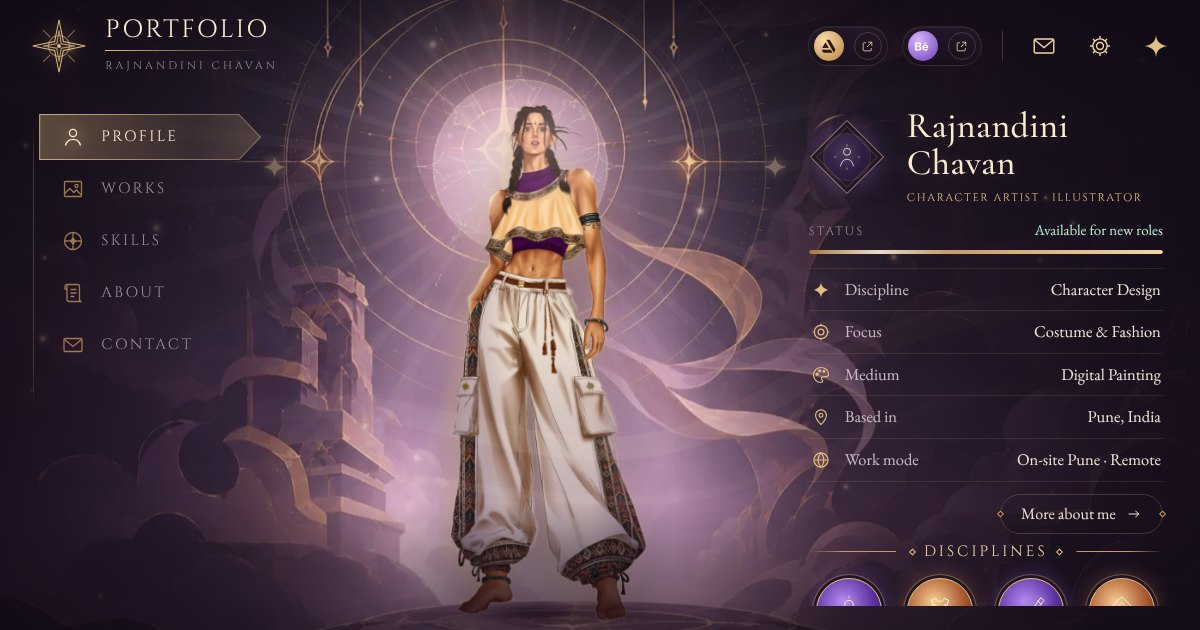
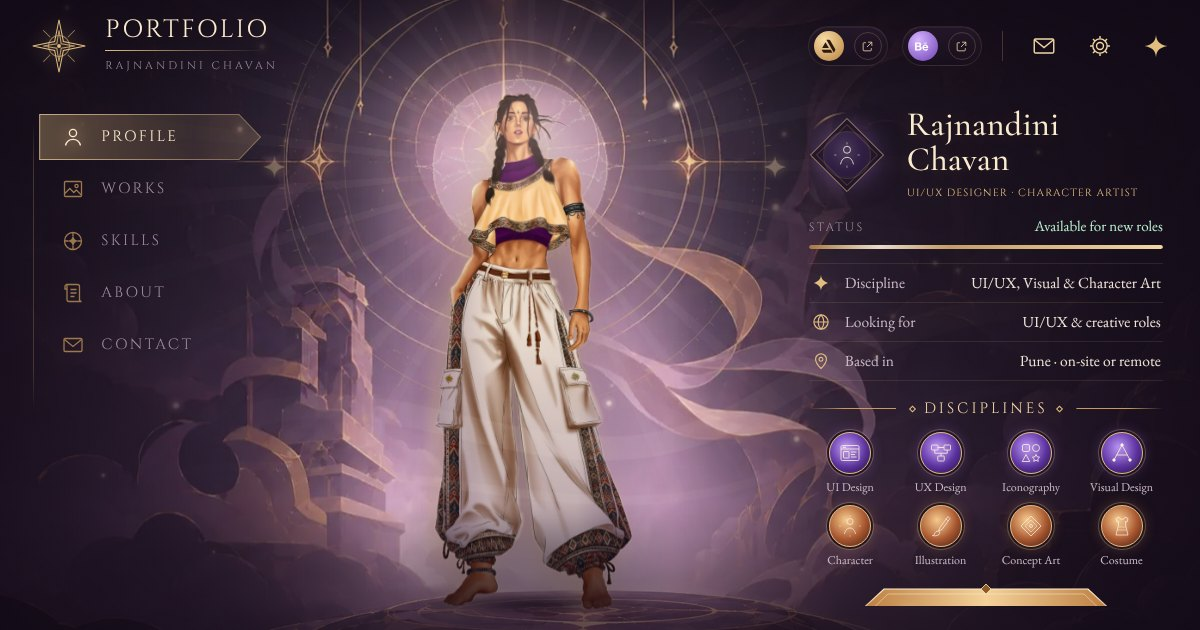
Reposition profile for UI/UX roles, compact disciplines
- Role line: UI/UX Designer · Character Artist (titles, meta, JSON-LD)
- Profile stats: broader Discipline, 'Looking for' replaces Work mode,
  Focus and Medium removed
- Disciplines: eight smaller orbs, adding UI Design, UX Design,
  Iconography and Visual Design with new emblems
- Tighter profile spacing so View Works is visible without scrolling,
  including on 1280x720 laptops
- Skills split into UI/UX & Visual and Art; About and Contact copy
  mention UI/UX work
- README: badge pinned to main pushes, copy updated; new share image

diff --git a/index.html b/index.html
@@ -3,15 +3,15 @@
 <head>
   <meta charset="utf-8" />
   <meta name="viewport" content="width=device-width, initial-scale=1, viewport-fit=cover" />
-  <title>Rajnandini Chavan | Character Artist &amp; Illustrator</title>
-  <meta name="description" content="Portfolio of Rajnandini Chavan, a character artist and illustrator based in Pune, India. Character design, costume design, illustration and concept art. Open to on-site roles in Pune and remote work." />
+  <title>Rajnandini Chavan | UI/UX Designer &amp; Character Artist</title>
+  <meta name="description" content="Portfolio of Rajnandini Chavan, a UI/UX designer and character artist based in Pune, India. UI design, UX, iconography, visual design, character design and illustration. Open to on-site roles in Pune and remote work." />
   <meta name="theme-color" content="#1b1222" />
   <!-- Visitor analytics: put the GoatCounter site code here (e.g. "rajnandini") to switch tracking on. Empty = off. -->
   <meta name="goatcounter" content="rajnandini" />
   <meta name="author" content="Rajnandini Chavan" />
   <meta property="og:type" content="website" />
-  <meta property="og:title" content="Rajnandini Chavan | Character Artist &amp; Illustrator" />
-  <meta property="og:description" content="Character design, costume design and illustration. Based in Pune, open to on-site and remote roles." />
+  <meta property="og:title" content="Rajnandini Chavan | UI/UX Designer &amp; Character Artist" />
+  <meta property="og:description" content="UI/UX, iconography, visual design and character art. Based in Pune, open to on-site and remote roles." />
   <link rel="canonical" href="https://ojaseminem.github.io/nancys-portfolio/" />
   <meta property="og:url" content="https://ojaseminem.github.io/nancys-portfolio/" />
   <meta property="og:image" content="https://ojaseminem.github.io/nancys-portfolio/og-image.jpg" />
@@ -27,7 +27,7 @@
     "@context": "https://schema.org",
     "@type": "Person",
     "name": "Rajnandini Chavan",
-    "jobTitle": "Character Artist & Illustrator",
+    "jobTitle": "UI/UX Designer & Character Artist",
     "email": "mailto:rajnandinichavan612@gmail.com",
     "telephone": "+91 93737 77294",
     "address": { "@type": "PostalAddress", "addressLocality": "Pune", "addressCountry": "IN" },
@@ -70,6 +70,10 @@
     <symbol id="e-costume" viewBox="0 0 48 48"><g fill="none" stroke="currentColor" stroke-width="1.4"><path d="M18 6c1 3 3 4.5 6 4.5S29 9 30 6l6 3-2 7-3-1v7l5 20H12l5-20v-7l-3 1-2-7 6-3Z"/><path d="M17 26h14M15.5 32h17" opacity=".7"/></g></symbol>
     <symbol id="e-illustration" viewBox="0 0 48 48"><g fill="none" stroke="currentColor" stroke-width="1.4"><path d="M38 5 22 27l-3 7 7-3L42 9Z"/><path d="M19 34c-4 0-7 2-8 6-.5 2-2 3-4 3 3 1 10 1 13-2 2-2 1.5-5-1-7Z"/><path d="m33.5 9.5 4 4"/></g></symbol>
     <symbol id="e-concept" viewBox="0 0 48 48"><g fill="none" stroke="currentColor" stroke-width="1.4"><path d="M24 4 44 24 24 44 4 24Z"/><path d="M24 12 36 24 24 36 12 24Z" opacity=".7"/><circle cx="24" cy="24" r="3"/></g></symbol>
+    <symbol id="e-ui" viewBox="0 0 48 48"><g fill="none" stroke="currentColor" stroke-width="1.6"><rect x="6" y="9" width="36" height="30" rx="2.5"/><path d="M6 16h36"/><circle cx="10.5" cy="12.5" r=".9" fill="currentColor"/><circle cx="14" cy="12.5" r=".9" fill="currentColor"/><rect x="11" y="21" width="11" height="13" rx="1"/><path d="M26 22h11M26 27h8M26 32h11"/></g></symbol>
+    <symbol id="e-ux" viewBox="0 0 48 48"><g fill="none" stroke="currentColor" stroke-width="1.6"><rect x="5" y="8" width="13" height="10" rx="1.5"/><rect x="30" y="8" width="13" height="10" rx="1.5"/><rect x="17.5" y="30" width="13" height="10" rx="1.5"/><path d="M18 13h12M11.5 18v6.5H24V30M36.5 18v6.5H24"/></g></symbol>
+    <symbol id="e-icons" viewBox="0 0 48 48"><g fill="none" stroke="currentColor" stroke-width="1.6"><rect x="7" y="7" width="14" height="14" rx="3"/><circle cx="34" cy="14" r="7"/><path d="M14 27 21.5 41h-15Z"/><path d="M34 27l2.2 4.6 5 .7-3.6 3.5.9 5-4.5-2.4-4.5 2.4.9-5-3.6-3.5 5-.7Z"/></g></symbol>
+    <symbol id="e-visual" viewBox="0 0 48 48"><g fill="none" stroke="currentColor" stroke-width="1.6"><path d="M8 38 24 8l16 30"/><path d="M13.5 28h21"/><circle cx="8" cy="38" r="2.5" fill="currentColor"/><circle cx="40" cy="38" r="2.5" fill="currentColor"/><circle cx="24" cy="8" r="2.5" fill="currentColor"/></g></symbol>
     <!-- stat glyphs -->
     <symbol id="s-discipline" viewBox="0 0 24 24"><path d="M12 2.5c.4 4.4 1.9 7 8.5 9.5-6.6 2.5-8.1 5.1-8.5 9.5-.4-4.4-1.9-7-8.5-9.5 6.6-2.5 8.1-5.1 8.5-9.5Z" fill="currentColor"/></symbol>
     <symbol id="s-focus" viewBox="0 0 24 24"><g fill="none" stroke="currentColor" stroke-width="1.4"><circle cx="12" cy="12" r="8"/><circle cx="12" cy="12" r="3.5"/><path d="M12 2v3M12 19v3M2 12h3M19 12h3"/></g></symbol>
@@ -236,7 +240,7 @@
         </div>
         <div class="nameplate__text">
           <h1 class="name">Rajnandini Chavan</h1>
-          <p class="role">Character Artist <span aria-hidden="true">·</span> Illustrator</p>
+          <p class="role">UI/UX Designer <span aria-hidden="true">·</span> Character Artist</p>
         </div>
       </div>
 
@@ -249,21 +253,21 @@
       </div>
 
       <dl class="stats">
-        <div class="stat"><dt><svg><use href="#s-discipline" /></svg>Discipline</dt><dd>Character Design</dd></div>
-        <div class="stat"><dt><svg><use href="#s-focus" /></svg>Focus</dt><dd>Costume &amp; Fashion</dd></div>
-        <div class="stat"><dt><svg><use href="#s-medium" /></svg>Medium</dt><dd>Digital Painting</dd></div>
-        <div class="stat"><dt><svg><use href="#s-base" /></svg>Based in</dt><dd>Pune, India</dd></div>
-        <div class="stat"><dt><svg><use href="#s-mode" /></svg>Work mode</dt><dd>On-site Pune · Remote</dd></div>
+        <div class="stat"><dt><svg><use href="#s-discipline" /></svg>Discipline</dt><dd>UI/UX, Visual &amp; Character Art</dd></div>
+        <div class="stat"><dt><svg><use href="#s-mode" /></svg>Looking for</dt><dd>UI/UX &amp; creative roles</dd></div>
+        <div class="stat"><dt><svg><use href="#s-base" /></svg>Based in</dt><dd>Pune · on-site or remote</dd></div>
       </dl>
-
-      <a class="ghost-btn" href="#about" data-nav="about">More about me <svg><use href="#i-arrow" /></svg></a>
 
       <h2 class="divider"><span>Disciplines</span></h2>
       <ul class="disciplines">
-        <li class="disc"><span class="disc__orb"><svg><use href="#e-character" /></svg></span><span class="disc__label">Character</span></li>
+        <li class="disc"><span class="disc__orb"><svg><use href="#e-ui" /></svg></span><span class="disc__label">UI Design</span></li>
+        <li class="disc"><span class="disc__orb"><svg><use href="#e-ux" /></svg></span><span class="disc__label">UX Design</span></li>
+        <li class="disc"><span class="disc__orb"><svg><use href="#e-icons" /></svg></span><span class="disc__label">Iconography</span></li>
+        <li class="disc"><span class="disc__orb"><svg><use href="#e-visual" /></svg></span><span class="disc__label">Visual Design</span></li>
+        <li class="disc"><span class="disc__orb disc__orb--warm"><svg><use href="#e-character" /></svg></span><span class="disc__label">Character</span></li>
+        <li class="disc"><span class="disc__orb disc__orb--warm"><svg><use href="#e-illustration" /></svg></span><span class="disc__label">Illustration</span></li>
+        <li class="disc"><span class="disc__orb disc__orb--warm"><svg><use href="#e-concept" /></svg></span><span class="disc__label">Concept Art</span></li>
         <li class="disc"><span class="disc__orb disc__orb--warm"><svg><use href="#e-costume" /></svg></span><span class="disc__label">Costume</span></li>
-        <li class="disc"><span class="disc__orb"><svg><use href="#e-illustration" /></svg></span><span class="disc__label">Illustration</span></li>
-        <li class="disc"><span class="disc__orb disc__orb--warm"><svg><use href="#e-concept" /></svg></span><span class="disc__label">Concept</span></li>
       </ul>
 
       <a class="cta" href="#works" data-nav="works">
@@ -317,23 +321,32 @@
         <h2 class="panel__title">Skills</h2>
       </header>
 
+      <h3 class="divider divider--first"><span>UI / UX &amp; Visual</span></h3>
+      <ul class="skill-list">
+        <li class="skill"><div class="skill__row"><span>UI design &amp; layout</span><span class="skill__lv">Core</span></div><div class="bar"><span class="bar__fill" style="--v:.86"></span></div></li>
+        <li class="skill"><div class="skill__row"><span>Iconography</span><span class="skill__lv">Core</span></div><div class="bar"><span class="bar__fill" style="--v:.88"></span></div></li>
+        <li class="skill"><div class="skill__row"><span>Visual design &amp; colour</span><span class="skill__lv">Core</span></div><div class="bar"><span class="bar__fill" style="--v:.9"></span></div></li>
+        <li class="skill"><div class="skill__row"><span>UX, user flows &amp; wireframes</span><span class="skill__lv">Strong</span></div><div class="bar"><span class="bar__fill" style="--v:.74"></span></div></li>
+      </ul>
+
+      <h3 class="divider"><span>Art</span></h3>
       <ul class="skill-list">
         <li class="skill"><div class="skill__row"><span>Character design</span><span class="skill__lv">Core</span></div><div class="bar"><span class="bar__fill" style="--v:.95"></span></div></li>
-        <li class="skill"><div class="skill__row"><span>Costume &amp; fashion design</span><span class="skill__lv">Core</span></div><div class="bar"><span class="bar__fill" style="--v:.92"></span></div></li>
-        <li class="skill"><div class="skill__row"><span>Digital painting &amp; rendering</span><span class="skill__lv">Core</span></div><div class="bar"><span class="bar__fill" style="--v:.88"></span></div></li>
-        <li class="skill"><div class="skill__row"><span>Illustration</span><span class="skill__lv">Strong</span></div><div class="bar"><span class="bar__fill" style="--v:.82"></span></div></li>
-        <li class="skill"><div class="skill__row"><span>Concept art &amp; visual development</span><span class="skill__lv">Strong</span></div><div class="bar"><span class="bar__fill" style="--v:.76"></span></div></li>
+        <li class="skill"><div class="skill__row"><span>Digital painting &amp; illustration</span><span class="skill__lv">Core</span></div><div class="bar"><span class="bar__fill" style="--v:.9"></span></div></li>
+        <li class="skill"><div class="skill__row"><span>Concept art &amp; costume design</span><span class="skill__lv">Strong</span></div><div class="bar"><span class="bar__fill" style="--v:.82"></span></div></li>
       </ul>
 
       <h3 class="divider"><span>Craft</span></h3>
       <ul class="chips">
+        <li>Visual hierarchy</li>
+        <li>Icon sets &amp; pictograms</li>
+        <li>Components &amp; consistency</li>
+        <li>Typography &amp; spacing</li>
+        <li>Colour &amp; contrast</li>
+        <li>Game &amp; fantasy UI</li>
         <li>Anatomy &amp; gesture</li>
-        <li>Fabric &amp; drapery</li>
         <li>Pattern &amp; textile detail</li>
         <li>Silhouette &amp; shape language</li>
-        <li>Colour &amp; light</li>
-        <li>Cultural costume research</li>
-        <li>Turnarounds &amp; callouts</li>
       </ul>
     </section>
 
@@ -344,15 +357,16 @@
         <h2 class="panel__title">About</h2>
       </header>
       <div class="prose">
-        <p>I'm Rajnandini, a character artist and illustrator from Pune. I design people first: who they are, where they've been, what they'd carry. Then I let the costume tell that story before anyone reads a line of lore.</p>
+        <p>I'm Rajnandini, a UI/UX designer and character artist from Pune. I design people first: who they are, where they've been, what they'd carry. Then I let the costume tell that story before anyone reads a line of lore.</p>
         <p>My work leans on textiles and traditional craft: woven borders, block-print geometry, the way heavy cotton folds against something lighter. I like mixing that heritage with contemporary, functional silhouettes so a character feels rooted and current at the same time.</p>
+        <p>The same eye carries into interface work: clear hierarchy, icons that read at a glance, and screens that feel like they belong to a world rather than a template. I enjoy designing UI that is easy to use and still has personality.</p>
       </div>
 
       <h3 class="divider"><span>Seeking</span></h3>
       <ul class="quest">
-        <li><span class="quest__mark"></span><div><strong>Roles</strong><p>Character artist, concept / visual development artist, illustrator, costume design for games, animation or publishing.</p></div></li>
+        <li><span class="quest__mark"></span><div><strong>Roles</strong><p>UI/UX designer, visual or icon designer, and creative art roles: character artist, illustrator, concept artist. For apps, games, animation or publishing.</p></div></li>
         <li><span class="quest__mark"></span><div><strong>Location</strong><p>On-site in Pune preferred. Open to fully remote teams anywhere.</p></div></li>
-        <li><span class="quest__mark"></span><div><strong>Best fit</strong><p>Creative, art-driven teams where character and world-building matter.</p></div></li>
+        <li><span class="quest__mark"></span><div><strong>Best fit</strong><p>Creative product and game teams where interfaces and visuals carry a strong identity.</p></div></li>
       </ul>
     </section>
 
@@ -362,7 +376,7 @@
         <p class="kicker">Send a raven</p>
         <h2 class="panel__title">Contact</h2>
       </header>
-      <p class="lede">Hiring for a creative role, or have a character that needs designing? I reply within a day or two.</p>
+      <p class="lede">Hiring for a UI/UX or creative role, or have a project that needs designing? I reply within a day or two.</p>
 
       <ul class="contact-list">
         <li class="ci">

diff --git a/src/style.css b/src/style.css
@@ -692,7 +692,7 @@ h1, h2, h3, p { margin: 0; }
   color: var(--gold-300);
 }
 
-.availability { margin: 4px 0 22px; }
+.availability { margin: 4px 0 16px; }
 .availability__row {
   display: flex; justify-content: space-between; align-items: baseline;
   font-size: 15px; color: var(--text-2); margin-bottom: 8px;
@@ -791,23 +791,24 @@ h1, h2, h3, p { margin: 0; }
 .divider span::before { left: 0; }
 .divider span::after { right: 0; }
 
-.disciplines { display: grid; grid-template-columns: repeat(4, 1fr); gap: 10px; text-align: center; }
-.disc { display: grid; justify-items: center; gap: 10px; }
+.disciplines { display: grid; grid-template-columns: repeat(4, 1fr); gap: 14px 8px; text-align: center; }
+.disc { display: grid; justify-items: center; gap: 6px; }
 .disc__orb {
   position: relative;
   display: grid; place-items: center;
-  width: 66px; height: 66px;
+  width: 46px; height: 46px;
   border-radius: 50%;
   background: radial-gradient(circle at 40% 35%, #b28af0, #5b31a0 55%, #23143a);
   border: 1px solid var(--gold-300);
-  box-shadow: 0 0 0 3px rgba(26, 16, 31, .9), 0 0 0 4px rgba(226, 189, 128, .35), 0 0 22px rgba(155, 107, 214, .45);
+  box-shadow: 0 0 0 2px rgba(26, 16, 31, .9), 0 0 0 3px rgba(226, 189, 128, .3), 0 0 14px rgba(155, 107, 214, .4);
   color: #fff4e2;
   transition: transform .5s var(--ease-out), box-shadow .4s;
 }
-.disc__orb--warm { background: radial-gradient(circle at 40% 35%, #f6c98c, #a8562f 55%, #3b1a16); box-shadow: 0 0 0 3px rgba(26, 16, 31, .9), 0 0 0 4px rgba(226, 189, 128, .35), 0 0 22px rgba(226, 150, 90, .4); }
-.disc__orb svg { width: 34px; height: 34px; filter: drop-shadow(0 0 4px rgba(255, 240, 220, .8)); }
+.disc__orb--warm { background: radial-gradient(circle at 40% 35%, #f6c98c, #a8562f 55%, #3b1a16); box-shadow: 0 0 0 2px rgba(26, 16, 31, .9), 0 0 0 3px rgba(226, 189, 128, .3), 0 0 14px rgba(226, 150, 90, .35); }
+.disc__orb svg { width: 24px; height: 24px; filter: drop-shadow(0 0 4px rgba(255, 240, 220, .8)); }
 .disc:hover .disc__orb { transform: translateY(-3px) scale(1.05); }
-.disc__label { font-size: 14px; color: var(--text-2); }
+.disc__label { font-size: 13px; line-height: 1.2; color: var(--text-2); }
+.divider--first { margin-top: 4px; }
 
 /* Primary CTA: gilded plate, rebuilt as vector from the supplied button art */
 .cta {
@@ -819,7 +820,7 @@ h1, h2, h3, p { margin: 0; }
   width: 320px;
   max-width: 100%;
   height: 64px;
-  margin: 34px auto 6px;
+  margin: 24px auto 6px;
   font-family: var(--f-display);
   font-weight: 600;
   font-size: 17px;
@@ -1133,11 +1134,17 @@ body.is-loading .panels { opacity: 0; transform: translateX(24px); }
   .availability { margin-bottom: 14px; }
   .stat { padding: 8px 2px; }
   .ghost-btn { margin-top: 12px; }
-  .divider { margin: 18px 0 14px; }
-  .cta { margin-top: 24px; }
+  .divider { margin: 16px 0 12px; }
+  .disciplines { row-gap: 10px; }
+  .disc__orb { width: 42px; height: 42px; }
+  .disc__label { font-size: 12px; }
+  .name { font-size: 34px; }
+  .stat { padding: 7px 2px; }
+  .cta { margin-top: 16px; }
 }
 @media (max-width: 1280px) and (min-width: 1000px) {
-  .role { font-size: 11px; letter-spacing: .14em; }
+  .role { font-size: 10.5px; letter-spacing: .1em; }
+  .stat dt, .stat dd { font-size: 15.5px; }
 }
 
 /* Ultra-wide: keep the character framed instead of scaling with the width */
@@ -1233,9 +1240,8 @@ body.is-loading .panels { opacity: 0; transform: translateX(24px); }
 }
 
 @media (max-width: 420px) {
-  .disciplines { gap: 4px; }
-  .disc__orb { width: 58px; height: 58px; }
-  .disc__label { font-size: 13px; }
+  .disciplines { gap: 12px 4px; }
+  .disc__label { font-size: 12px; }
   .feature { grid-template-columns: 104px 1fr; gap: 14px; padding: 12px; }
   .feature__media { height: 190px; }
   .feature__title { font-size: 28px; }

diff --git a/src/main.js b/src/main.js
@@ -35,7 +35,7 @@ const prefs = {
 /* ------------------------------------------------------------------ */
 const SECTIONS = ['profile', 'works', 'skills', 'about', 'contact'];
 const TITLES = {
-  profile: 'Rajnandini Chavan | Character Artist & Illustrator',
+  profile: 'Rajnandini Chavan | UI/UX Designer & Character Artist',
   works: 'Works | Rajnandini Chavan',
   skills: 'Skills | Rajnandini Chavan',
   about: 'About | Rajnandini Chavan',

diff --git a/README.md b/README.md
@@ -2,12 +2,12 @@
 
 **Live site:** https://ojaseminem.github.io/nancys-portfolio/
 
-[![Site status](https://github.com/ojaseminem/nancys-portfolio/actions/workflows/deploy.yml/badge.svg)](https://github.com/ojaseminem/nancys-portfolio/actions/workflows/deploy.yml)
+[![Site status](https://github.com/ojaseminem/nancys-portfolio/actions/workflows/deploy.yml/badge.svg?branch=main&event=push)](https://github.com/ojaseminem/nancys-portfolio/actions/workflows/deploy.yml)
 [![Total visits](https://rajnandini.goatcounter.com/counter/TOTAL.svg)](https://rajnandini.goatcounter.com)
 
 **Analytics dashboard:** https://rajnandini.goatcounter.com
 
-The portfolio of Rajnandini Chavan, a character artist and illustrator based in Pune, India. It is designed like a fantasy game character screen. Her character stands on a glowing pedestal, and a gilded menu opens her profile, work, skills, story and contact details.
+The portfolio of Rajnandini Chavan, a UI/UX designer and character artist based in Pune, India. It is designed like a fantasy game character screen. Her character stands on a glowing pedestal, and a gilded menu opens her profile, work, skills, story and contact details.
 
 ![Preview](public/og-image.jpg)
 
@@ -17,10 +17,10 @@ The portfolio of Rajnandini Chavan, a character artist and illustrator based in 
 
 | Section | What's in it |
 | --- | --- |
-| **Profile** | Name, role, availability, discipline, focus, medium, location, work mode, and her four disciplines |
+| **Profile** | Name, role, availability, discipline, what she is looking for, location, and her disciplines (UI design, UX design, iconography, visual design, character, illustration, concept art, costume) |
 | **Works** | Featured artwork with a full-screen viewer, plus links to her full ArtStation and Behance galleries |
-| **Skills** | Core skills with levels, and craft strengths |
-| **About** | Her story, the roles she is looking for, and location preference (Pune on-site or remote) |
+| **Skills** | UI/UX and visual skills, art skills, and craft strengths |
+| **About** | Her story, the roles she is looking for (UI/UX and creative), and location preference (Pune on-site or remote) |
 | **Contact** | Email, phone, ArtStation, Behance and location, with one-tap copy buttons |
 
 Visitors on a computer get a short cinematic intro and a mouse parallax effect, where the scene shifts in depth and the character leans toward the cursor. Phones get a touch-friendly layout with a bottom menu. People who prefer less motion can switch the effects off from the ⚙ menu.
@@ -139,7 +139,7 @@ Send the changes to Ojas, who maintains the site.
 
 ## Contact
 
-**Rajnandini Chavan**, Character Artist and Illustrator
+**Rajnandini Chavan**, UI/UX Designer and Character Artist
 
 - Email: rajnandinichavan612@gmail.com
 - ArtStation: https://www.artstation.com/rajnandinichavan1
